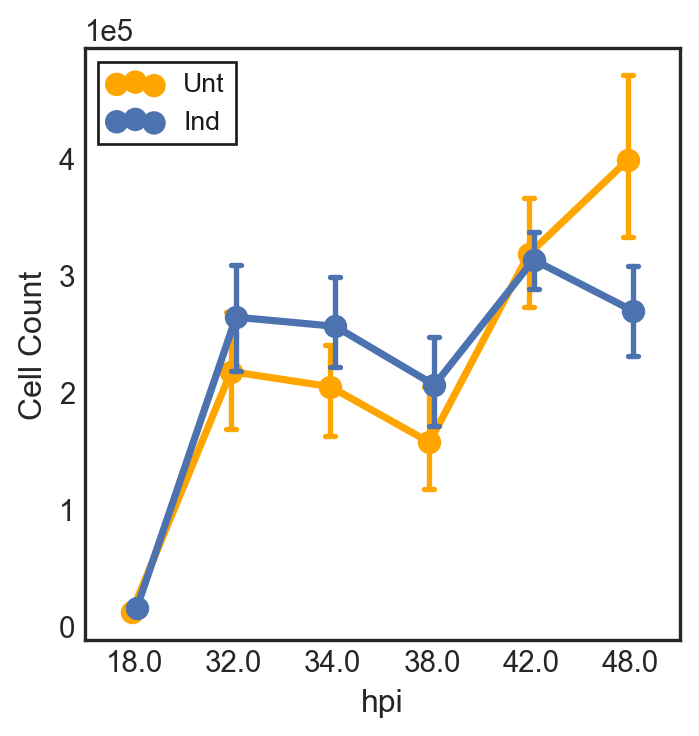
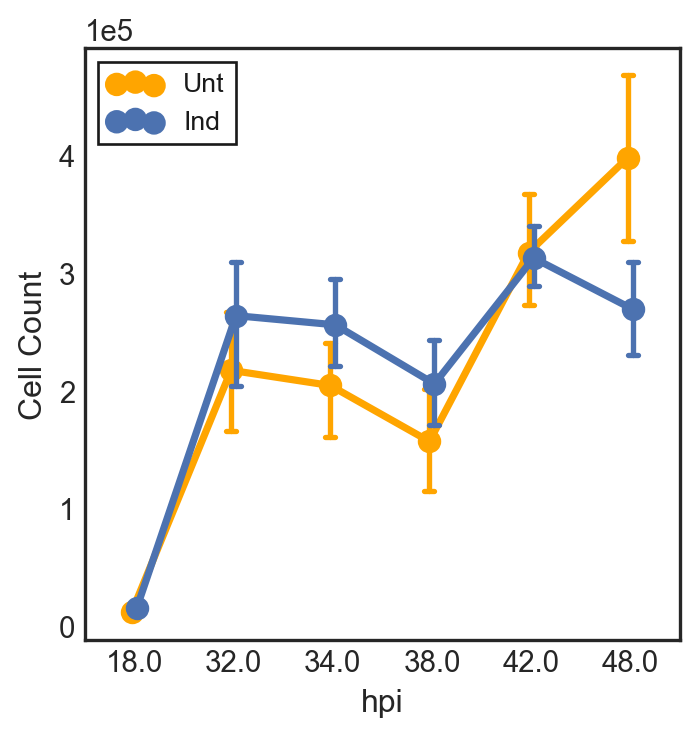
changed axis label and such to look more like fig1

diff --git a/docs/posts/MarksChannels/index.html b/docs/posts/MarksChannels/index.html
@@ -270,15 +270,21 @@ code span.wa { color: #60a0b0; font-weight: bold; font-style: italic; } /* Warni
 <section id="figure-2-markschannels" class="level2">
 <h2 class="anchored" data-anchor-id="figure-2-markschannels">Figure 2 Marks/Channels</h2>
 <p>I made a heat map of the datasets which really doesn’t show the correlation or anything. You can see that as we get towards 48hpi they seem to follow the same ish pattern but really you can’t get any correlations from this.</p>
+<ul>
+<li><p>Expressive/Effective: the data presented is not shown in a way easily perceivable. Just by looking at the data you can’t really interpret anything unless I were to describe in detail what is occuring. There is too much overlap and many channels thrown at you; what does the color intensity mean? why is there a gap in the middle? what does orange vs blue mean?</p></li>
+<li><p>Separability: the first dataset was easily separated by color and connecting lines. The second dataset, however, has a lot of overlap which makes it hard to be able to distinguish individual datapoints or any correlation as you look at it. you can just kinda see the colors vaguely mash together in the same areas.</p></li>
+</ul>
 <div class="cell" data-execution_count="6">
 <details>
 <summary>Code</summary>
 <div class="sourceCode cell-code" id="cb6"><pre class="sourceCode python code-with-copy"><code class="sourceCode python"><span id="cb6-1"><a href="#cb6-1" aria-hidden="true" tabindex="-1"></a><span class="cf">with</span> plt.style.context(<span class="st">'seaborn-white'</span>):</span>
 <span id="cb6-2"><a href="#cb6-2" aria-hidden="true" tabindex="-1"></a>    fig, ax <span class="op">=</span> plt.subplots(ncols<span class="op">=</span><span class="dv">1</span>)</span>
-<span id="cb6-3"><a href="#cb6-3" aria-hidden="true" tabindex="-1"></a>    sns.histplot(x<span class="op">=</span>df[<span class="st">'hpi'</span>], y<span class="op">=</span>df[<span class="st">'pyrG copies/ul'</span>], hue<span class="op">=</span>df[<span class="st">'Treatment'</span>], data<span class="op">=</span>df, ax<span class="op">=</span>ax, linewidth<span class="op">=</span><span class="fl">.9</span>)</span></code><button title="Copy to Clipboard" class="code-copy-button"><i class="bi"></i></button></pre></div>
+<span id="cb6-3"><a href="#cb6-3" aria-hidden="true" tabindex="-1"></a>    sns.histplot(x<span class="op">=</span>df[<span class="st">'hpi'</span>], y<span class="op">=</span>df[<span class="st">'pyrG copies/ul'</span>], hue<span class="op">=</span>df[<span class="st">'Treatment'</span>], data<span class="op">=</span>df, ax<span class="op">=</span>ax, linewidth<span class="op">=</span><span class="fl">.9</span>)</span>
+<span id="cb6-4"><a href="#cb6-4" aria-hidden="true" tabindex="-1"></a>    ax.<span class="bu">set</span>(ylabel<span class="op">=</span><span class="st">'Cell Count'</span>)</span>
+<span id="cb6-5"><a href="#cb6-5" aria-hidden="true" tabindex="-1"></a>    ax.ticklabel_format(axis<span class="op">=</span><span class="st">"y"</span>, style<span class="op">=</span><span class="st">"sci"</span>, scilimits<span class="op">=</span>(<span class="dv">0</span>,<span class="dv">2</span>))</span></code><button title="Copy to Clipboard" class="code-copy-button"><i class="bi"></i></button></pre></div>
 </details>
 <div class="cell-output cell-output-display">
-<p><img src="index_files/figure-html/cell-7-output-1.png" width="614" height="427"></p>
+<p><img src="index_files/figure-html/cell-7-output-1.png" width="573" height="442"></p>
 </div>
 </div>
 <div class="cell" data-execution_count="7">
@@ -544,11 +550,13 @@ window.document.addEventListener("DOMContentLoaded", function (event) {
 <span id="cb8-76"><a href="#cb8-76" aria-hidden="true" tabindex="-1"></a><span class="cf">with</span> plt.style.context(<span class="st">'seaborn-white'</span>):</span>
 <span id="cb8-77"><a href="#cb8-77" aria-hidden="true" tabindex="-1"></a>    fig, ax <span class="op">=</span> plt.subplots(ncols<span class="op">=</span><span class="dv">1</span>)</span>
 <span id="cb8-78"><a href="#cb8-78" aria-hidden="true" tabindex="-1"></a>    sns.histplot(x<span class="op">=</span>df[<span class="st">'hpi'</span>], y<span class="op">=</span>df[<span class="st">'pyrG copies/ul'</span>], hue<span class="op">=</span>df[<span class="st">'Treatment'</span>], data<span class="op">=</span>df, ax<span class="op">=</span>ax, linewidth<span class="op">=</span><span class="fl">.9</span>)</span>
-<span id="cb8-79"><a href="#cb8-79" aria-hidden="true" tabindex="-1"></a><span class="in">```</span></span>
-<span id="cb8-80"><a href="#cb8-80" aria-hidden="true" tabindex="-1"></a></span>
-<span id="cb8-83"><a href="#cb8-83" aria-hidden="true" tabindex="-1"></a><span class="in">```{python}</span></span>
-<span id="cb8-84"><a href="#cb8-84" aria-hidden="true" tabindex="-1"></a>plt.show()</span>
-<span id="cb8-85"><a href="#cb8-85" aria-hidden="true" tabindex="-1"></a><span class="in">```</span></span>
+<span id="cb8-79"><a href="#cb8-79" aria-hidden="true" tabindex="-1"></a>    ax.<span class="bu">set</span>(ylabel<span class="op">=</span><span class="st">'Cell Count'</span>)</span>
+<span id="cb8-80"><a href="#cb8-80" aria-hidden="true" tabindex="-1"></a>    ax.ticklabel_format(axis<span class="op">=</span><span class="st">"y"</span>, style<span class="op">=</span><span class="st">"sci"</span>, scilimits<span class="op">=</span>(<span class="dv">0</span>,<span class="dv">2</span>))</span>
+<span id="cb8-81"><a href="#cb8-81" aria-hidden="true" tabindex="-1"></a><span class="in">```</span></span>
+<span id="cb8-82"><a href="#cb8-82" aria-hidden="true" tabindex="-1"></a></span>
+<span id="cb8-85"><a href="#cb8-85" aria-hidden="true" tabindex="-1"></a><span class="in">```{python}</span></span>
+<span id="cb8-86"><a href="#cb8-86" aria-hidden="true" tabindex="-1"></a>plt.show()</span>
+<span id="cb8-87"><a href="#cb8-87" aria-hidden="true" tabindex="-1"></a><span class="in">```</span></span>
 </code><button title="Copy to Clipboard" class="code-copy-button"><i class="bi"></i></button></pre></div>
 </div></div></div></div></div>
 </div> <!-- /content -->

diff --git a/docs/index.html b/docs/index.html
@@ -166,7 +166,7 @@ ul.task-list li input[type="checkbox"] {
 
 <div class="quarto-listing quarto-listing-container-default" id="listing-listing">
 <div class="list quarto-listing-default">
-<div class="quarto-post image-right" data-index="0" data-categories="Assignment,DataViz" data-listing-date-sort="1676361600000" data-listing-file-modified-sort="1676587225218" data-listing-reading-time-sort="1.67">
+<div class="quarto-post image-right" data-index="0" data-categories="Assignment,DataViz" data-listing-date-sort="1676361600000" data-listing-file-modified-sort="1676587357224" data-listing-reading-time-sort="1.725">
 <div class="thumbnail">
 <p><a href="./posts/MarksChannels/index.html"> <img src="./posts/MarksChannels/IMG_7123 Small.jpeg" class="thumnail-image"> </a></p>
 </div>
